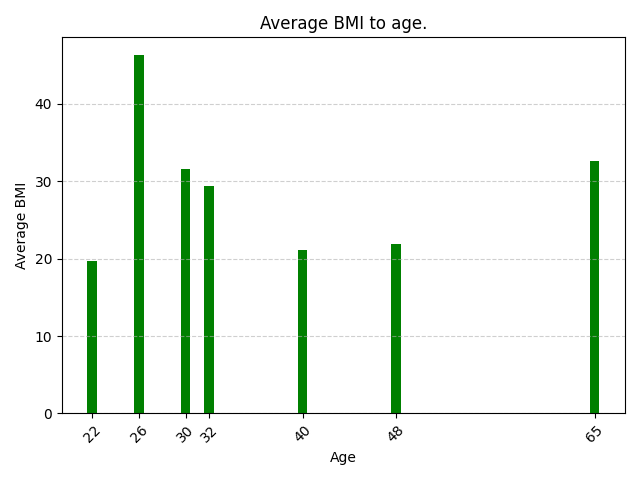
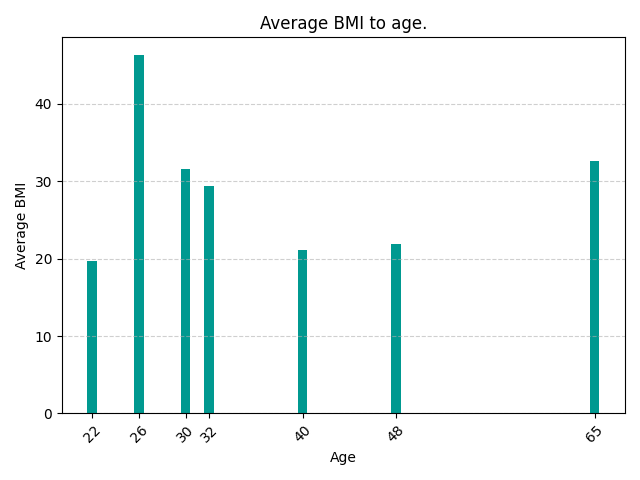
add table site

diff --git a/templates/stats.html b/templates/stats.html
@@ -4,33 +4,18 @@
     <meta charset="UTF-8">
     <meta name="viewport" content="width=device-width, initial-scale=1">
     <link rel="stylesheet" href="{{ url_for('static', filename='style.css') }}">
+    <title>Stats graf</title>
 </head>
-    <title>Stats BMI</title>
-</head>
-<body>
-<h1>Statistic BMI</h1>
 
-<div class="container">
-    <div class="table_wrapper">
-        <table class="stats_table">
-            <thead>
-                <tr>
-                    <th>Age</th>
-                    <th>BMI</th>
-                </tr>
-            </thead>
-            <tbody>
-                {% for age, bmi in data %}
-                <tr>
-                    <td>{{ age }}</td>
-                    <td>{{ bmi }}</td>
-                </tr>
-                {% endfor %}
-            </tbody>
-        </table>
+<body>
+
+ <h1>Statistic graf</h1>
+
+    <div class="stats_container">
+        <a href="{{ url_for('table_page') }}" class="btn">Table</a>
     </div>
-</div>
-<img src="{{ url_for('static', filename='bmi_chart.png') }}" alt="Graf BMI">
+
+    <img src="{{ url_for('static', filename='bmi_chart.png') }}" alt="Graf BMI">
 
 </body>
 </html>

diff --git a/templates/table.html b/templates/table.html
@@ -1,0 +1,39 @@
+<!doctype html>
+<html lang="en">
+<head>
+    <meta charset="UTF-8">
+    <meta name="viewport" content="width=device-width, initial-scale=1">
+    <link rel="stylesheet" href="{{ url_for('static', filename='style.css') }}">
+    <link rel="stylesheet" href="static/style.css">
+    <title>Table stats</title>
+</head>
+
+<body>
+<h1>Statistic table</h1>
+
+<div class="stats_container">
+    <a href="{{ url_for('stats_page') }}" class="btn">Stats</a>
+</div>
+
+    <div class="container">
+    <div class="table_wrapper">
+        <table class="stats_table">
+            <thead>
+                <tr>
+                    <th>Age</th>
+                    <th>BMI</th>
+                </tr>
+            </thead>
+            <tbody>
+                {% for age, bmi in data %}
+                <tr>
+                    <td>{{ age }}</td>
+                    <td>{{ bmi }}</td>
+                </tr>
+                {% endfor %}
+            </tbody>
+        </table>
+    </div>
+</div>
+</body>
+</html>

diff --git a/static/style.css b/static/style.css
@@ -84,7 +84,7 @@ button:hover {
 }
 
 .stats_table thead{
-    background-color: #074799;
+    background-color: #009990;
     color: white;
 }
 
@@ -99,5 +99,24 @@ button:hover {
 }
 
 img{
+    align-items: center;
     margin-top: 30px
+}
+
+.stats_container {
+    display: flex;
+    align-items: center;
+    gap: 20px;
+}
+
+.btn {
+    padding: 10px 20px;
+    background-color: #007bff;
+    color: white;
+    text-decoration: none;
+    border-radius: 8px;
+    font-weight: bold;
+}
+.btn:hover {
+    background-color: #0056b3;
 }

diff --git a/templates/index.html b/templates/index.html
@@ -5,7 +5,6 @@
     <meta name="viewport" content="width=device-width, initial-scale=1">
     <link rel="stylesheet" href="{{ url_for('static', filename='style.css') }}">
     <link rel="stylesheet" href="static/style.css">
-</head>
     <title>BMI Calculator</title>
 </head>
 <body>

diff --git a/app.py b/app.py
@@ -62,11 +62,16 @@ def input_user():
 @app.route("/stats")
 def stats_page():
     data = load_data()
-    if data:
-        plot_bmi(data)
+    plot_bmi(data)
 
-    return render_template("stats.html", data=data)
+    return render_template("stats.html")
 
+
+@app.route("/table")
+def table_page():
+    data = load_data()
+
+    return render_template("table.html", data=data)
 
 #main module
 if __name__ == "__main__":

diff --git a/stats.py b/stats.py
@@ -26,7 +26,7 @@ def plot_bmi(data, save_path="static/bmi_chart.png"):
     avg_bmis = [round(sum(bmi_by_age[age]) / len(bmi_by_age[age]), 2) for age in ages]
 
     # Vykreslení grafu
-    plt.bar(ages, avg_bmis, color='green')
+    plt.bar(ages, avg_bmis, color='#009990')
     plt.title("Average BMI to age.")
     plt.xlabel("Age")
     plt.ylabel("Average BMI")
